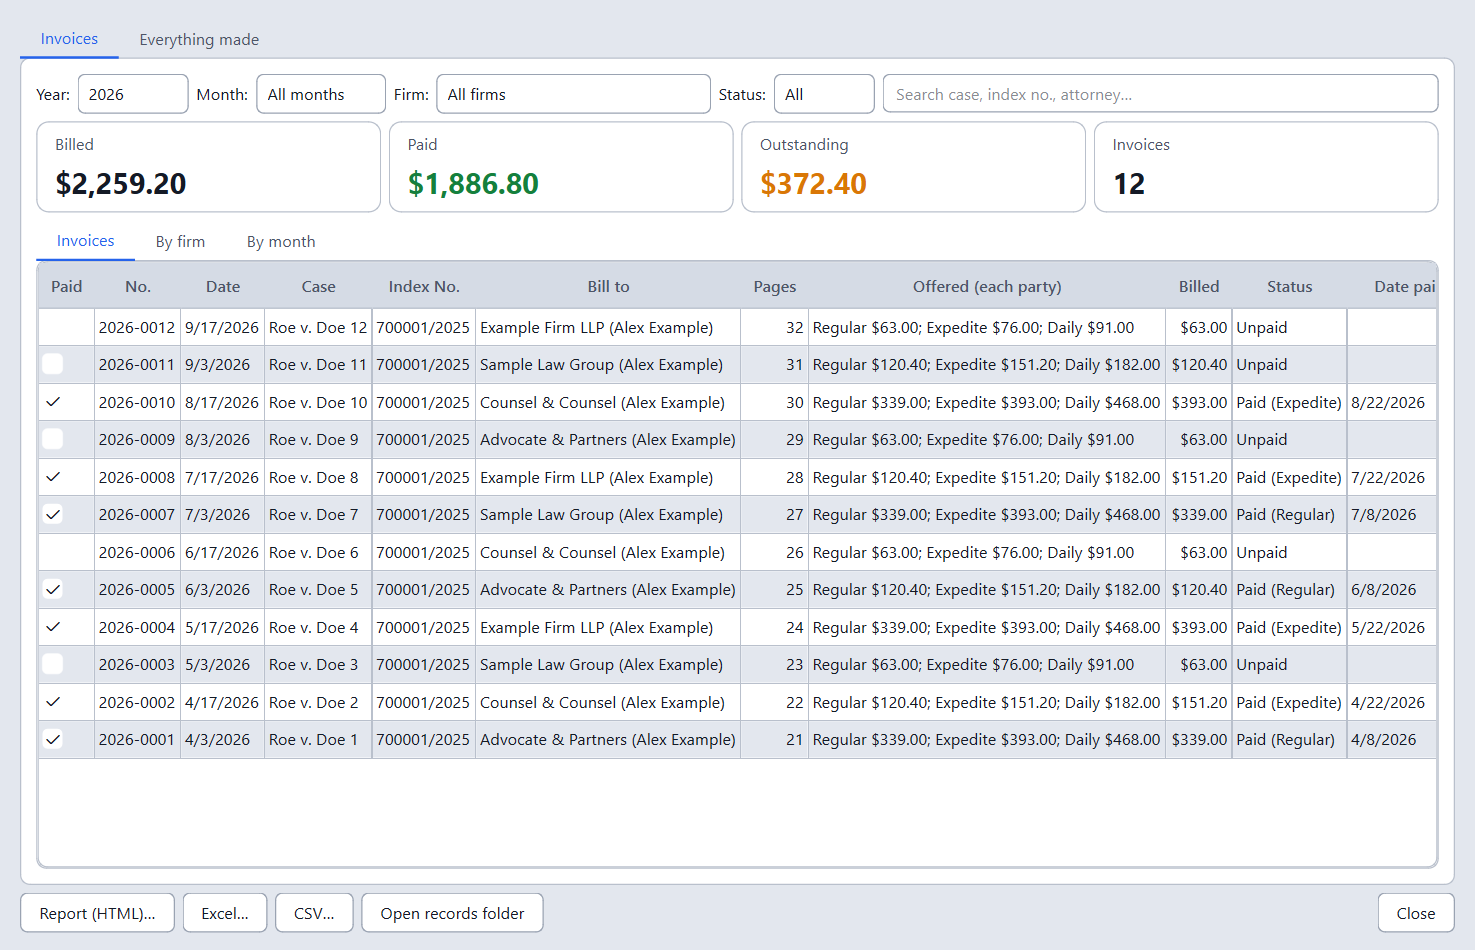
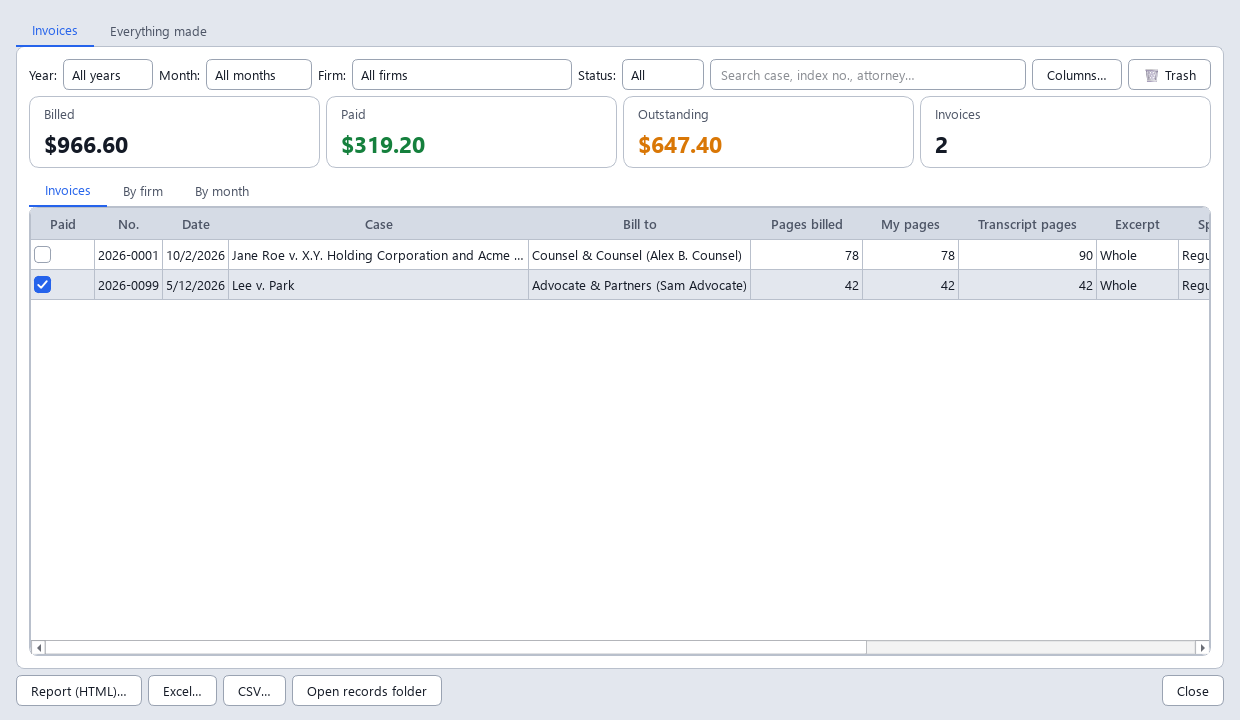
Website for 1.5.0: excerpts, your own pages, invoice text, records columns and trash, zoom and folders; new screenshots

diff --git a/docs/index.html b/docs/index.html
@@ -99,8 +99,9 @@
     <img class="shot" src="invoice.png" alt="One invoice for two days of a case, listing the Regular and Expedite amounts">
     <div>
       <h2>Invoices from your transcripts</h2>
-      <p>Drop a transcript PDF and tick <b>Invoice</b>. The page count and your rate sheet price the original, each party's copy and e-mailed copy, and an index for long transcripts, split between the ordering parties. You tick the speeds to offer (Regular and Expedited to start with), and the invoice shows each one's turnaround and amount, with how to pay you. Want the page count, the pages of each day and the charges spelled out for this job? Tick <b>Show granular detail</b>, and choose what it shows. <b>Extras…</b> drops the e-mailed copy or adds an index for one job.</p>
-      <p>Attorneys ordering different parts of a trial? <b>Who ordered…</b> lets you say, day by day, which attorney ordered which pages. Each attorney gets one invoice for what they ordered: pages ordered together share the original and the index, and every attorney pays for their own copy. Sample shown uses made-up names.</p>
+      <p>Drop a transcript PDF and tick <b>Invoice</b>. The page count and your rate sheet price the original, each party's copy and e-mailed copy, and an index for long transcripts, split between the ordering parties. You tick the speeds to offer (Regular and Expedited to start with), and the invoice shows each one's turnaround and amount, with how to pay you. Want the page count, the pages of each day and the charges spelled out for this job? Tick <b>Show granular detail</b>, and choose what it shows. <b>Extras…</b> drops the e-mailed copy or adds an index for one job. The notes on the invoice are yours to write, too: place them where you like and have them show only when they apply ("delivered once every party has paid" only when several parties ordered).</p>
+      <p>One firm ordered the whole transcript and another just an excerpt? <b>Excerpts…</b> takes it in one line ("Dana Smith ordered pages 20 to 40"), or day by day for anything more involved. Each attorney gets one invoice for what they ordered: pages ordered together share the original and the index, and every attorney pays for their own copy.</p>
+      <p>Shared the trial with another reporter? The invoice bills only <b>your</b> pages, the ones with your initials at the foot: 65 of a 150-page transcript, say. <b>Whose pages…</b> bills someone else's pages or the whole transcript when you need to, and the app asks when it can't tell. Sample shown uses made-up names.</p>
     </div>
   </div>
 </section>
@@ -119,7 +120,7 @@
   <div class="wrap two">
     <div>
       <h2>See what you billed, and what was paid</h2>
-      <p><b>Records</b> keeps every invoice and form the app made. See totals billed, paid and outstanding for any month, year or firm, with breakdowns by firm and by month. Tick <b>Paid</b> when the money comes in, and if you corrected an amount in an invoice PDF, <b>Change amounts…</b> keeps the totals right. Export a report, an Excel workbook or CSV files whenever you like; a CSV copy is always kept up to date in your Documents folder.</p>
+      <p><b>Records</b> keeps every invoice and form the app made. See totals billed, paid and outstanding for any month, year or firm, with breakdowns by firm and by month. Tick <b>Paid</b> when the money comes in, and if you corrected an amount in an invoice PDF, <b>Change amounts…</b> keeps the totals right. Choose the columns you want: your pages and the transcript's, the excerpt, the speeds offered and the one ordered, whether an e-mailed copy was included, and more, and click a heading to sort. Deleted something by mistake? It waits in the <b>Trash</b> for 30 days. Export a report, an Excel workbook or CSV files whenever you like; a CSV copy is always kept up to date in your Documents folder.</p>
     </div>
     <img class="shot" src="records.png" alt="The Records window with invoice totals and a list of invoices">
   </div>
@@ -133,6 +134,8 @@
       <div class="card"><h3>Asks when unsure</h3><p>Missing or conflicting items (index number, dates, judge) are raised before filling, never silently guessed.</p></div>
       <div class="card"><h3>Remembers you</h3><p>Your name, address, phone, e-mail, default speed, copies and signature are set once in Settings, and what you tick in the Outputs box stays ticked.</p></div>
       <div class="card"><h3>Fix it afterwards</h3><p>The PDFs stay fillable: every value the app typed in, invoice amounts included, can be corrected in a PDF viewer. When it's final, File &rarr; Lock finished PDFs saves a locked copy.</p></div>
+      <div class="card"><h3>Fits your screen</h3><p>Works with Windows' display scaling, and Ctrl + and Ctrl &minus; (View &rarr; Zoom) make everything bigger or smaller.</p></div>
+      <div class="card"><h3>Your folders</h3><p>Save everything next to your documents, in one folder, or give agreements, invoices, MOFRs and run sheets a folder each.</p></div>
       <div class="card"><h3>Your rate sheets</h3><p>Rates live in small spreadsheets (CSV) you can edit in Excel: private, city, whatever you charge.</p></div>
       <div class="card"><h3>Optional local AI</h3><p>If you use Ollama, an AI helper can read messy photos and e-mails. It is only used when Ollama is installed, and it stays on your machine.</p></div>
       <div class="card"><h3>Open source</h3><p>Read the code, report a problem, or suggest a change on GitHub.</p></div>
